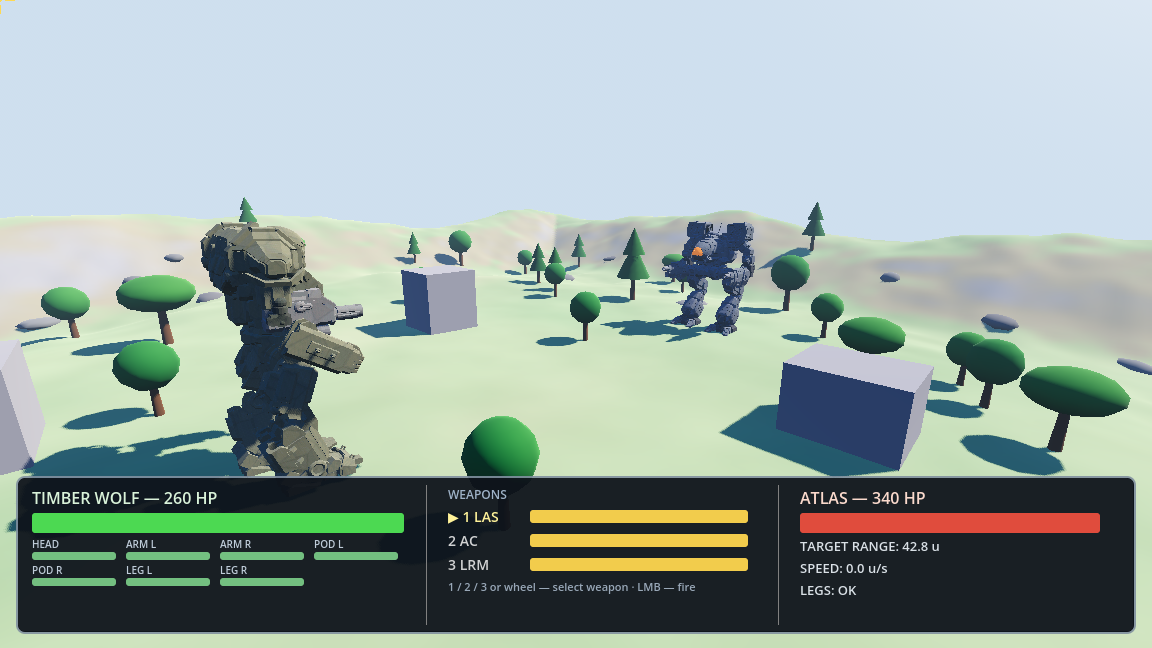
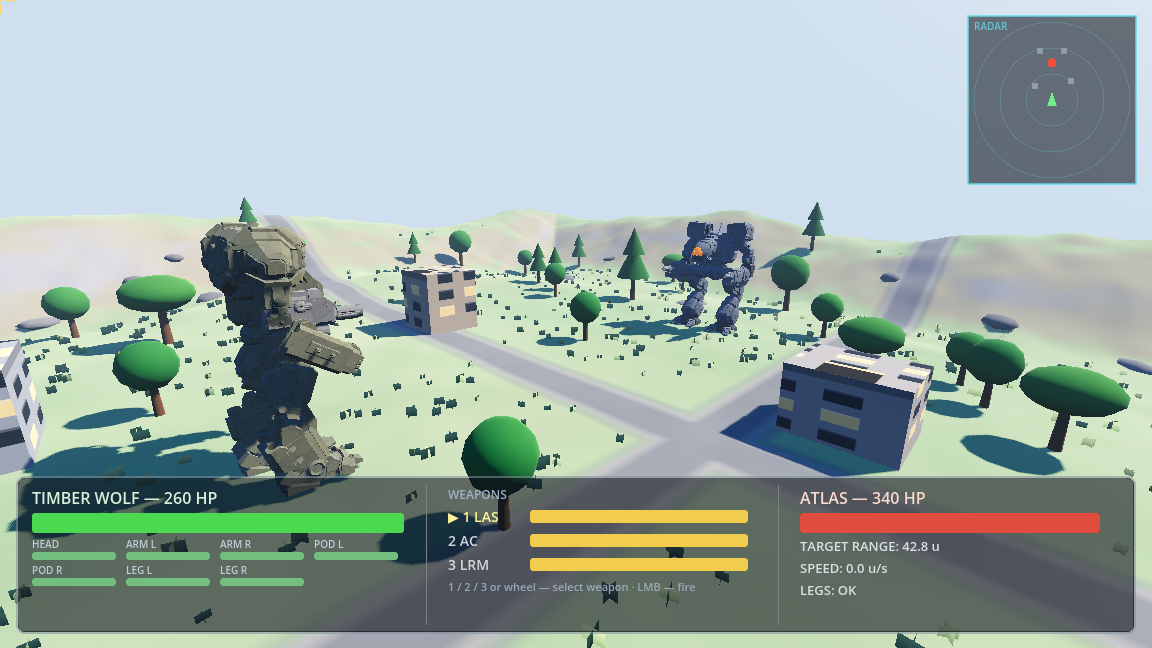
proof: frames for the feature round (explosion aftermath, radar, roads) + env capture cam mode
weapons_atlas_dead.png now shows the Atlas as a charred debris heap with the kill sequence in the feed and the radar contact gone; duel_chase.png shows the radar live and the semi-transparent panel; terrain_vista.png shows both roads, facades and grass. All four suites green on the final code: duel (LABTEST), weapons (ATLASFIRE/KILL/FX/ENV), breakable (KNOCKTEST x9), terrain (RUNTEST 6.37).

diff --git a/godot/MechDuel.cs b/godot/MechDuel.cs
@@ -2396,7 +2396,7 @@ public partial class MechDuel : Node3D
                 }
                 else if (_wEnvStep == 3)
                 {
-                    if (!_wCaptured) { _wCaptured = true; QueueCapture("res://proof/env_burning.png", "envBurn", "orbit"); }
+                    if (!_wCaptured) { _wCaptured = true; QueueCapture("res://proof/env_burning.png", "envBurn", "duelChase"); }
                     if (_wPhaseT > 40) { WFail("tree never finished evaporating"); return; }
                     if (_wEnvT.State == 4)
                     {
